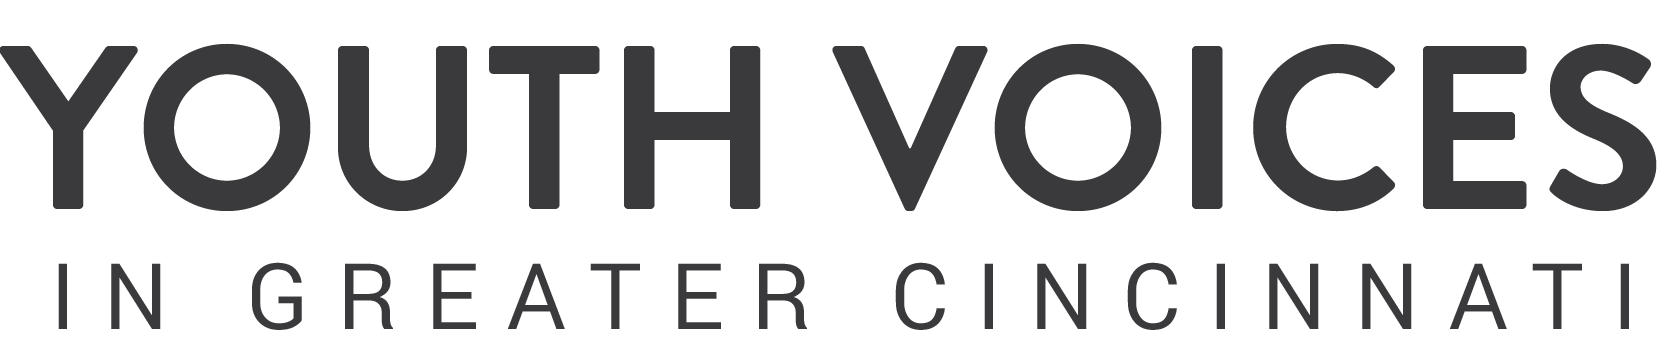
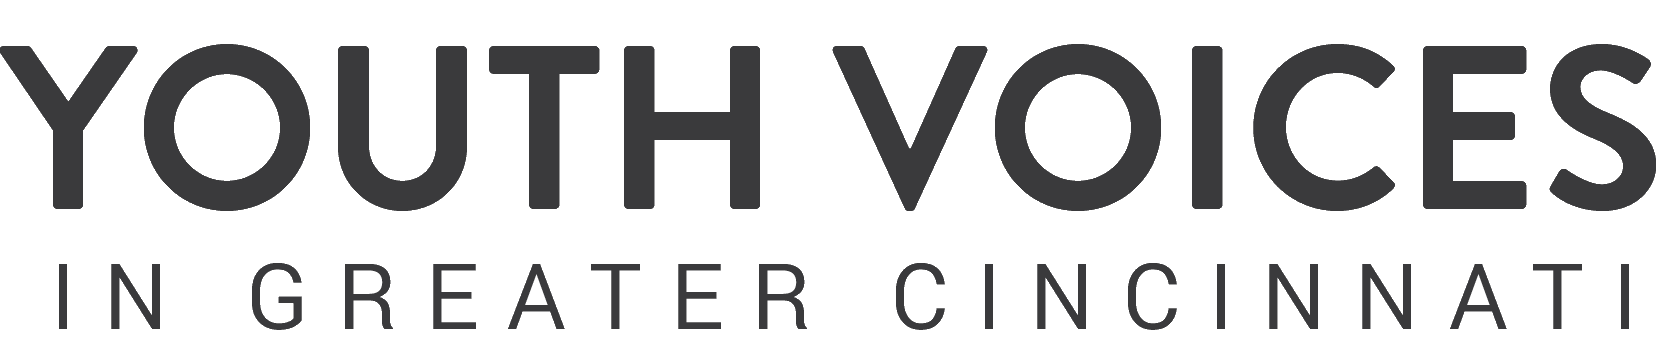
Added navbar.

diff --git a/src/containers/Landing/Landing.js b/src/containers/Landing/Landing.js
@@ -38,40 +38,54 @@ export default class Landing extends Component {
       <Router>
         <div className="Landing">
           <Navbar color="light" light expand="md">
-            <NavbarBrand href="/">Image</NavbarBrand>
+            <NavbarBrand href="/">
+              <img
+                className="logo"
+                alt="Youth Voice Logo"
+                src={require('../../assets/img/Logo.png')}
+              />
+
+              <img
+                className="youth-voice-img"
+                alt="Youth Voice"
+                src={require('../../assets/img/YouthVoices.png')}
+              />
+            </NavbarBrand>
             <NavbarToggler onClick={this.toggle} />
             <Collapse isOpen={this.state.isOpen} navbar>
               <Nav navbar>
-                <NavItem>
+                <NavItem className="item">
                   <NavLink tag={Link} to="/">
                     Home
                   </NavLink>
                 </NavItem>
-                <NavItem>
+                <NavItem className="item">
                   <NavLink tag={Link} to="/programs">
                     Programs
                   </NavLink>
                 </NavItem>
-                <NavItem>
+                <NavItem className="item">
                   <NavLink tag={Link} to="/participate">
                     Participate
                   </NavLink>
                 </NavItem>
-                <NavItem>
+                <NavItem className="item">
                   <NavLink tag={Link} to="/stories">
                     Stories
                   </NavLink>
                 </NavItem>
-                <NavItem>
+                <NavItem className="item">
                   <NavLink tag={Link} to="/contactUs">
                     Contact Us
                   </NavLink>
                 </NavItem>
-                <NavItem>
+                <NavItem className="item">
                   <NavLink tag={Link} to="/aboutUs">
                     About Us
                   </NavLink>
                 </NavItem>
+                <NavItem className="social-item" />
+                <NavItem className="search-item" />
               </Nav>
             </Collapse>
           </Navbar>

diff --git a/src/containers/Landing/Landing.css b/src/containers/Landing/Landing.css
@@ -1,0 +1,19 @@
+.logo {
+  width: 80px;
+  margin-left: -15px;
+}
+
+.youth-voice-img {
+  width: 210px;
+}
+a.nav-link {
+  font-weight: 600;
+  color: black !important;
+}
+a.nav-link:hover {
+  font-weight: 600;
+  color: #245e7d !important;
+}
+.item {
+  border-right: #cfb364 1px solid;
+}
